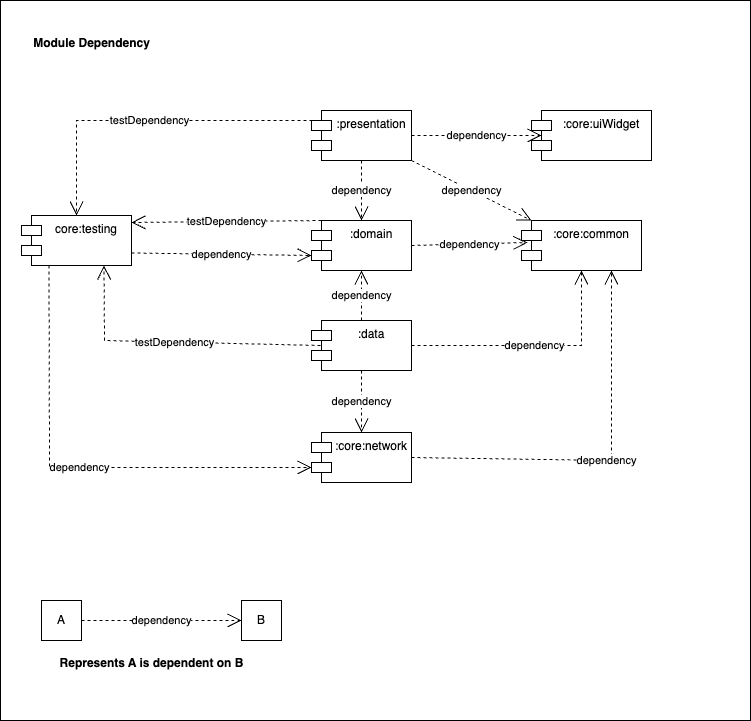
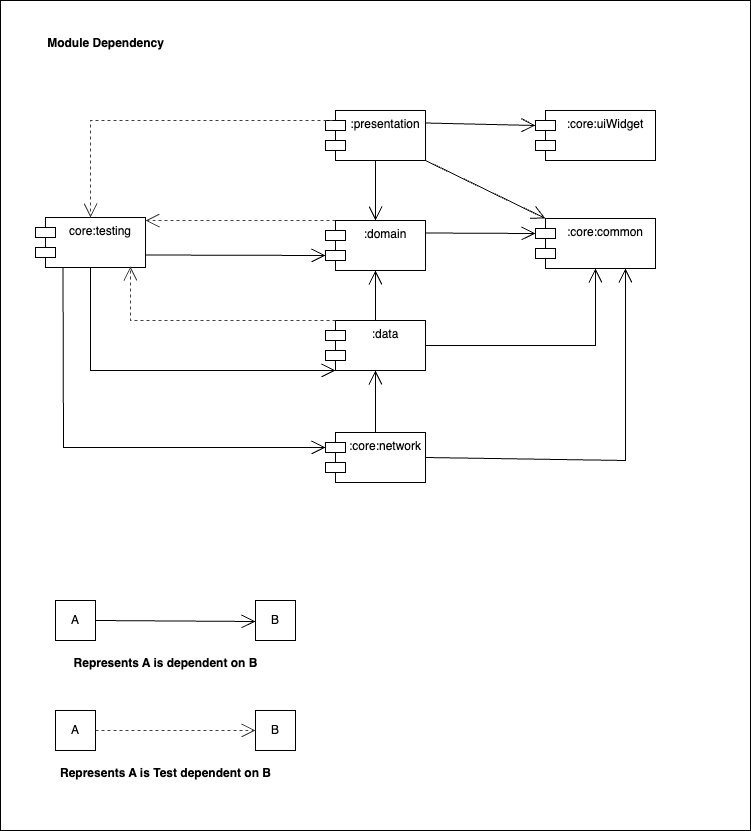
Network module is dependent on data module now.

diff --git a/feature/bikeNetwork/data/src/test/kotlin/com/example/bikeNetwork/data/remotedatasource/BikeNetworkRemoteDataSourceTest.kt b/feature/bikeNetwork/data/src/test/kotlin/com/example/bikeNetwork/data/remotedatasource/BikeNetworkRemoteDataSourceTest.kt
@@ -1,13 +1,15 @@
 package com.example.bikeNetwork.data.remotedatasource
 
+import com.example.bikeNetwork.data.dto.BikeNetworkDetailResponseDto
+import com.example.bikeNetwork.data.dto.BikeNetworkListResponseDto
+import com.example.bikeNetwork.data.service.BikeNetworkService
+import com.example.client.NetworkClient
 import com.example.common.model.Error
 import com.example.common.model.Result
-import com.example.core.network.service.BikeNetworkService
 import com.example.testing.dispatcherRule.MainDispatcherRule
 import com.example.testing.testData.MEDIA_TYPE
 import com.example.testing.testData.NETWORK_ID
 import com.example.testing.testData.SERVER_ERROR_CONTENT
-import com.example.testing.testData.SERVER_NOT_REACHABLE
 import com.example.testing.testData.SERVER_NOT_REACHABLE_ERROR_CODE
 import com.example.testing.testData.createBikeNetworkDetailResponseDto
 import com.example.testing.testData.createNetworkListDto
@@ -22,9 +24,7 @@ import okhttp3.ResponseBody
 import org.junit.Before
 import org.junit.Rule
 import org.junit.Test
-import retrofit2.Converter
 import retrofit2.Response
-import retrofit2.Retrofit
 
 class BikeNetworkRemoteDataSourceTest {
     @OptIn(ExperimentalCoroutinesApi::class)
@@ -35,7 +35,7 @@ class BikeNetworkRemoteDataSourceTest {
     lateinit var service: BikeNetworkService
 
     @MockK
-    lateinit var retrofit: Retrofit
+    lateinit var client: NetworkClient
 
     @Before
     fun setUp() {
@@ -46,7 +46,10 @@ class BikeNetworkRemoteDataSourceTest {
     @Test
     fun bikeNetworkRemoteDataSource_bike_network_list_is_loaded() = runTest {
         coEvery { service.getBikeNetworkList() } returns Response.success(createNetworkListDto())
-        val remoteSource = BikeNetworkRemoteDataSource(service, retrofit)
+        coEvery { client.executeRequest<BikeNetworkListResponseDto>(any()) } returns Result.success(
+            data = service.getBikeNetworkList().body()
+        )
+        val remoteSource = BikeNetworkRemoteDataSource(service, client)
         val response = remoteSource.getBikeNetworkList()
         coVerify {
             service.getBikeNetworkList()
@@ -67,19 +70,12 @@ class BikeNetworkRemoteDataSourceTest {
                     SERVER_ERROR_CONTENT
                 )
             )
-            coEvery { retrofit.responseBodyConverter<Error>(any(), any()) } returns
-                    Converter {
-                        Error(
-                            statusCode = SERVER_NOT_REACHABLE_ERROR_CODE,
-                            statusMessage = SERVER_NOT_REACHABLE
-                        )
-                    }
-
-            val remoteSource = BikeNetworkRemoteDataSource(service, retrofit)
+            coEvery { client.executeRequest<Error>(any()) } returns Result.error(
+                message = SERVER_ERROR_CONTENT,
+                error = Error(SERVER_NOT_REACHABLE_ERROR_CODE, SERVER_ERROR_CONTENT),
+            )
+            val remoteSource = BikeNetworkRemoteDataSource(service, client)
             val response = remoteSource.getBikeNetworkList()
-            coVerify {
-                service.getBikeNetworkList()
-            }
             assert(response.status == Result.Status.ERROR)
         }
 
@@ -89,14 +85,16 @@ class BikeNetworkRemoteDataSourceTest {
         coEvery { service.getBikeNetworkDetail(NETWORK_ID) } returns Response.success(
             createBikeNetworkDetailResponseDto()
         )
-        val remoteSource = BikeNetworkRemoteDataSource(service, retrofit)
+        coEvery { client.executeRequest<BikeNetworkDetailResponseDto>(any()) } returns Result.success(
+            data = service.getBikeNetworkDetail(NETWORK_ID).body()
+        )
+        val remoteSource = BikeNetworkRemoteDataSource(service, client)
         val result = remoteSource.getBikeNetworkDetail(NETWORK_ID)
         coVerify {
-            service.getBikeNetworkDetail(any())
+            service.getBikeNetworkDetail(NETWORK_ID)
         }
         assert(result.status == Result.Status.SUCCESS)
         assert(result.data != null)
-
     }
 
     @OptIn(ExperimentalCoroutinesApi::class)
@@ -110,18 +108,12 @@ class BikeNetworkRemoteDataSourceTest {
                     SERVER_ERROR_CONTENT
                 )
             )
-            coEvery { retrofit.responseBodyConverter<Error>(any(), any()) } returns
-                    Converter {
-                        Error(
-                            statusCode = SERVER_NOT_REACHABLE_ERROR_CODE,
-                            statusMessage = SERVER_NOT_REACHABLE
-                        )
-                    }
-            val remoteSource = BikeNetworkRemoteDataSource(service, retrofit)
+            coEvery { client.executeRequest<Error>(any()) } returns Result.error(
+                message = SERVER_ERROR_CONTENT,
+                error = Error(SERVER_NOT_REACHABLE_ERROR_CODE, SERVER_ERROR_CONTENT),
+            )
+            val remoteSource = BikeNetworkRemoteDataSource(service, client)
             val result = remoteSource.getBikeNetworkDetail(NETWORK_ID)
-            coVerify {
-                service.getBikeNetworkDetail(any())
-            }
             assert(result.status == Result.Status.ERROR)
         }
 }

diff --git a/app/src/main/java/di/feature/bikeNetwork/DataModule.kt b/app/src/main/java/di/feature/bikeNetwork/DataModule.kt
@@ -1,14 +1,16 @@
 package di.feature.bikeNetwork
 
 import com.example.bikeNetwork.data.datasource.BikeNetworkDataSource
+import com.example.bikeNetwork.data.dto.BikeNetworkDetailResponseDto
+import com.example.bikeNetwork.data.dto.BikeNetworkDto
 import com.example.bikeNetwork.data.remotedatasource.BikeNetworkRemoteDataSource
 import com.example.bikeNetwork.data.remotedatasource.modelMapper.BikeNetworkDetailRemoteDataMapper
 import com.example.bikeNetwork.data.remotedatasource.modelMapper.BikeNetworkRemoteListDataMapper
 import com.example.bikeNetwork.data.remotedatasource.modelMapper.ModelMapper
 import com.example.bikeNetwork.domain.entity.BikeNetworkDetailEntity
 import com.example.bikeNetwork.domain.entity.BikeNetworkEntity
-import com.example.core.network.dto.BikeNetworkDetailResponseDto
-import com.example.core.network.dto.BikeNetworkDto
+import com.example.client.NetworkClient
+import com.example.core.network.NetworkClientImpl
 import dagger.Binds
 import dagger.Module
 import dagger.hilt.InstallIn
@@ -18,11 +20,14 @@ import dagger.hilt.android.components.ViewModelComponent
 @InstallIn(ViewModelComponent::class)
 abstract class DataModule {
     @Binds
-    abstract fun bindIBikeNetworkDataSource(bikeNetworkDataSource: BikeNetworkRemoteDataSource): BikeNetworkDataSource
+    abstract fun bindBikeNetworkDataSource(bikeNetworkDataSource: BikeNetworkRemoteDataSource): BikeNetworkDataSource
 
     @Binds
     abstract fun bindBikeNetworkRemoteListDataMapper(bikeNetworkDataSource: BikeNetworkRemoteListDataMapper): ModelMapper<BikeNetworkEntity, BikeNetworkDto>
 
     @Binds
     abstract fun bindBikeNetworkDetailRemoteDataMapper(bikeNetworkDataSource: BikeNetworkDetailRemoteDataMapper): ModelMapper<BikeNetworkDetailEntity, BikeNetworkDetailResponseDto>
+
+    @Binds
+    abstract fun bindNetworkClient(networkClient: NetworkClientImpl): NetworkClient
 }

diff --git a/feature/bikeNetwork/data/src/main/kotlin/com/example/bikeNetwork/data/remotedatasource/BikeNetworkRemoteDataSource.kt b/feature/bikeNetwork/data/src/main/kotlin/com/example/bikeNetwork/data/remotedatasource/BikeNetworkRemoteDataSource.kt
@@ -1,25 +1,20 @@
 package com.example.bikeNetwork.data.remotedatasource
 
 import com.example.bikeNetwork.data.datasource.BikeNetworkDataSource
+import com.example.bikeNetwork.data.dto.BikeNetworkDetailResponseDto
+import com.example.bikeNetwork.data.dto.BikeNetworkListResponseDto
+import com.example.bikeNetwork.data.service.BikeNetworkService
+import com.example.client.NetworkClient
 import com.example.common.model.Result
-import com.example.core.network.RemoteDataSource
-import com.example.core.network.dto.BikeNetworkDetailResponseDto
-import com.example.core.network.dto.BikeNetworkListResponseDto
-import com.example.core.network.service.BikeNetworkService
-import retrofit2.Retrofit
 import javax.inject.Inject
 
 class BikeNetworkRemoteDataSource @Inject constructor(
     private val service: BikeNetworkService,
-    retrofit: Retrofit
-) : RemoteDataSource(retrofit = retrofit), BikeNetworkDataSource {
+    private val client: NetworkClient
+) : BikeNetworkDataSource {
     override suspend fun getBikeNetworkList(): Result<BikeNetworkListResponseDto> =
-        getResponse(
-            request = { service.getBikeNetworkList() }
-        )
+        client.executeRequest { service.getBikeNetworkList() }
 
     override suspend fun getBikeNetworkDetail(networkId: String): Result<BikeNetworkDetailResponseDto> =
-        getResponse(
-            request = { service.getBikeNetworkDetail(networkId) }
-        )
+        client.executeRequest { service.getBikeNetworkDetail(networkId) }
 }

diff --git a/core/testing/src/main/java/com/example/testing/testData/TestData.kt b/core/testing/src/main/java/com/example/testing/testData/TestData.kt
@@ -1,16 +1,14 @@
 package com.example.testing.testData
 
+import com.example.bikeNetwork.data.dto.BikeNetworkDto
+import com.example.bikeNetwork.data.dto.BikeNetworkListResponseDto
+import com.example.bikeNetwork.data.dto.Extra
+import com.example.bikeNetwork.data.dto.Location
 import com.example.bikeNetwork.domain.entity.BikeNetworkDetailEntity
 import com.example.bikeNetwork.domain.entity.BikeNetworkEntity
 import com.example.bikeNetwork.domain.entity.BikeNetworksEntity
 import com.example.bikeNetwork.domain.entity.Station
-import com.example.core.network.dto.BikeNetworkDetail
-import com.example.core.network.dto.BikeNetworkDetailResponseDto
-import com.example.core.network.dto.BikeNetworkDto
-import com.example.core.network.dto.BikeNetworkListResponseDto
-import com.example.core.network.dto.Extra
-import com.example.core.network.dto.Location
-import com.example.core.network.dto.Station as StationDto
+import com.example.bikeNetwork.data.dto.Station as StationDto
 
 const val NETWORK_ID = "network_id"
 const val NETWORK_ID_VALUE = "1"
@@ -150,8 +148,8 @@ fun createBikeNetworkDetailResponseDto(
         country = SECOND_COUNTRY
     ),
     stations: List<StationDto> = stationsDto,
-) = BikeNetworkDetailResponseDto(
-    network = BikeNetworkDetail(
+) = com.example.bikeNetwork.data.dto.BikeNetworkDetailResponseDto(
+    network = com.example.bikeNetwork.data.dto.BikeNetworkDetail(
         id = id,
         name = name,
         location = location,

diff --git a/feature/bikeNetwork/data/src/main/kotlin/com/example/bikeNetwork/data/repository/BikeNetworkRepositoryImpl.kt b/feature/bikeNetwork/data/src/main/kotlin/com/example/bikeNetwork/data/repository/BikeNetworkRepositoryImpl.kt
@@ -1,15 +1,15 @@
 package com.example.bikeNetwork.data.repository
 
+import com.example.bikeNetwork.data.Constants
 import com.example.bikeNetwork.data.datasource.BikeNetworkDataSource
+import com.example.bikeNetwork.data.dto.BikeNetworkDetailResponseDto
+import com.example.bikeNetwork.data.dto.BikeNetworkDto
 import com.example.bikeNetwork.data.remotedatasource.modelMapper.ModelMapper
 import com.example.bikeNetwork.domain.entity.BikeNetworkDetailEntity
 import com.example.bikeNetwork.domain.entity.BikeNetworkEntity
 import com.example.bikeNetwork.domain.entity.BikeNetworksEntity
 import com.example.bikeNetwork.domain.repository.BikeNetworkRepository
 import com.example.common.model.Result
-import com.example.core.network.Constants
-import com.example.core.network.dto.BikeNetworkDetailResponseDto
-import com.example.core.network.dto.BikeNetworkDto
 import kotlinx.coroutines.Dispatchers
 import kotlinx.coroutines.flow.Flow
 import kotlinx.coroutines.flow.flow

diff --git a/feature/bikeNetwork/data/src/main/kotlin/com/example/bikeNetwork/data/remotedatasource/modelMapper/BikeNetworkDetailRemoteDataMapper.kt b/feature/bikeNetwork/data/src/main/kotlin/com/example/bikeNetwork/data/remotedatasource/modelMapper/BikeNetworkDetailRemoteDataMapper.kt
@@ -1,11 +1,11 @@
 package com.example.bikeNetwork.data.remotedatasource.modelMapper
 
+import com.example.bikeNetwork.data.dto.BikeNetworkDetail
+import com.example.bikeNetwork.data.dto.BikeNetworkDetailResponseDto
+import com.example.bikeNetwork.data.dto.Extra
+import com.example.bikeNetwork.data.dto.Location
+import com.example.bikeNetwork.data.dto.Station
 import com.example.bikeNetwork.domain.entity.BikeNetworkDetailEntity
-import com.example.core.network.dto.BikeNetworkDetail
-import com.example.core.network.dto.BikeNetworkDetailResponseDto
-import com.example.core.network.dto.Extra
-import com.example.core.network.dto.Location
-import com.example.core.network.dto.Station
 import javax.inject.Inject
 
 class BikeNetworkDetailRemoteDataMapper @Inject constructor() :

diff --git a/core/network/src/main/java/com/example/core/network/NetworkClientImpl.kt b/core/network/src/main/java/com/example/core/network/NetworkClientImpl.kt
@@ -1,13 +1,15 @@
 package com.example.core.network
 
+import com.example.client.NetworkClient
 import com.example.common.model.Error
 import com.example.common.model.Result
 import com.example.core.network.util.ErrorUtils
 import retrofit2.Response
 import retrofit2.Retrofit
+import javax.inject.Inject
 
-abstract class RemoteDataSource(private val retrofit: Retrofit) {
-    suspend fun <T> getResponse(
+class NetworkClientImpl @Inject constructor(private val retrofit: Retrofit) : NetworkClient {
+    override suspend fun <T> executeRequest(
         request: suspend () -> Response<T>
     ): Result<T> {
         return try {

diff --git a/feature/bikeNetwork/data/src/main/kotlin/com/example/bikeNetwork/data/service/BikeNetworkService.kt b/feature/bikeNetwork/data/src/main/kotlin/com/example/bikeNetwork/data/service/BikeNetworkService.kt
@@ -1,8 +1,7 @@
-package com.example.core.network.service
+package com.example.bikeNetwork.data.service
 
-import com.example.core.network.EndPoints
-import com.example.core.network.dto.BikeNetworkDetailResponseDto
-import com.example.core.network.dto.BikeNetworkListResponseDto
+import com.example.bikeNetwork.data.dto.BikeNetworkDetailResponseDto
+import com.example.bikeNetwork.data.dto.BikeNetworkListResponseDto
 import retrofit2.Response
 import retrofit2.http.GET
 import retrofit2.http.Path

diff --git a/feature/bikeNetwork/data/src/main/kotlin/com/example/bikeNetwork/data/datasource/BikeNetworkDataSource.kt b/feature/bikeNetwork/data/src/main/kotlin/com/example/bikeNetwork/data/datasource/BikeNetworkDataSource.kt
@@ -1,9 +1,9 @@
 package com.example.bikeNetwork.data.datasource
 
 
+import com.example.bikeNetwork.data.dto.BikeNetworkDetailResponseDto
+import com.example.bikeNetwork.data.dto.BikeNetworkListResponseDto
 import com.example.common.model.Result
-import com.example.core.network.dto.BikeNetworkDetailResponseDto
-import com.example.core.network.dto.BikeNetworkListResponseDto
 
 interface BikeNetworkDataSource {
     suspend fun getBikeNetworkList(): Result<BikeNetworkListResponseDto>

diff --git a/core/network/src/main/java/com/example/core/network/di/NetworkModule.kt b/core/network/src/main/java/com/example/core/network/di/NetworkModule.kt
@@ -1,8 +1,8 @@
 package com.example.core.network.di
 
-import com.example.core.network.BASE_URL
+import com.example.bikeNetwork.data.service.BASE_URL
+import com.example.bikeNetwork.data.service.BikeNetworkService
 import com.example.core.network.networkInterceptor.LoggingInterceptor
-import com.example.core.network.service.BikeNetworkService
 import dagger.Module
 import dagger.Provides
 import dagger.hilt.InstallIn

diff --git a/feature/bikeNetwork/data/src/main/kotlin/com/example/bikeNetwork/data/remotedatasource/modelMapper/BikeNetworkRemoteListDataMapper.kt b/feature/bikeNetwork/data/src/main/kotlin/com/example/bikeNetwork/data/remotedatasource/modelMapper/BikeNetworkRemoteListDataMapper.kt
@@ -1,8 +1,8 @@
 package com.example.bikeNetwork.data.remotedatasource.modelMapper
 
+import com.example.bikeNetwork.data.dto.BikeNetworkDto
+import com.example.bikeNetwork.data.dto.Location
 import com.example.bikeNetwork.domain.entity.BikeNetworkEntity
-import com.example.core.network.dto.BikeNetworkDto
-import com.example.core.network.dto.Location
 import javax.inject.Inject
 
 

diff --git a/feature/bikeNetwork/data/src/main/kotlin/com/example/client/NetworkClient.kt b/feature/bikeNetwork/data/src/main/kotlin/com/example/client/NetworkClient.kt
@@ -1,0 +1,10 @@
+package com.example.client
+
+import com.example.common.model.Result
+import retrofit2.Response
+
+interface NetworkClient {
+    suspend fun <T> executeRequest(
+        request: suspend () -> Response<T>
+    ): Result<T>
+}
